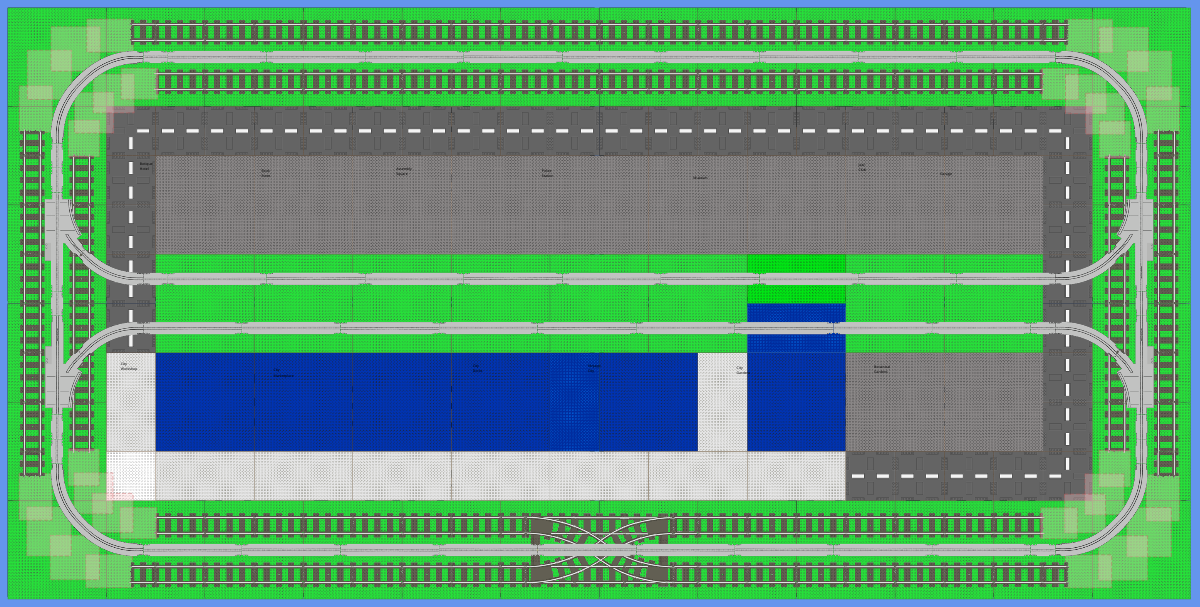
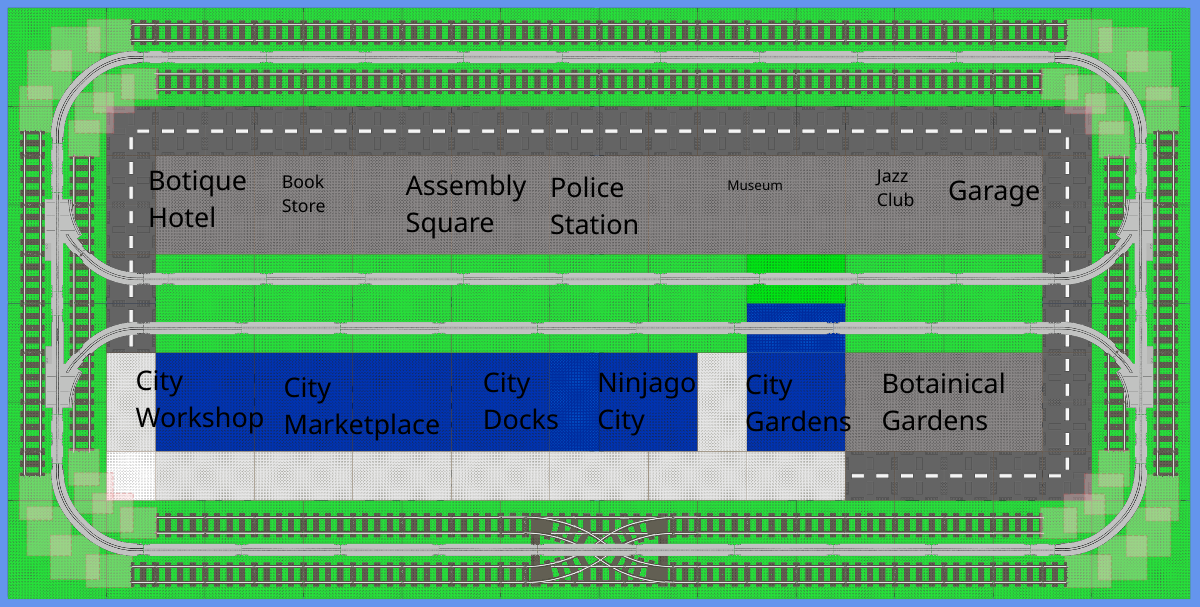
Phase 3.13: fit-to-box text rendering + panel action buttons
Text rendering fix (verified against fordyce-2026 and tight-corner):
- Vanilla stores the full rendered-text bounding box (including multi-
  line height) in TextCell.displayArea in studs. The Font.Size field
  is the typographic size used to produce that pixmap, NOT a
  scene-scale pt value, so applying it directly made labels display
  as tiny dots.
- SceneBuilder::addTextLayer now probes the text at a 100-px font
  size, measures the resulting bounding rect, and chooses the pixel
  size that maximises the text within displayArea while respecting
  both width AND height. Rotated labels (orientation 90°/270°) swap
  the target axes. Multi-line strings ("City\nGardens") get the
  right per-line size because the probe's bounding rect accounts for
  newlines natively.
- Text is centred on displayArea.center and rotated around that
  centre via QTransform (translate-rotate-translate), matching
  vanilla's "anchor in centre, rotate in place" behaviour.

Panel action buttons:
- LayerPanel gets a top toolbar row with "Show all" and "Solo" (hide
  all others), complementing the existing right-click context menu.
- ModulesPanel gets Create / Import… / Delete buttons. Create and
  Import pipe into the same slots that the menu uses (extracted into
  MainWindow::onCreateModuleFromSelection / onImportBbmAsModule);
  Delete is enabled only when a real module row is selected.

Refreshed preview images (docs/preview/*.png) with the new text
renderer.

diff --git a/src/ui/MainWindow.cpp b/src/ui/MainWindow.cpp
@@ -72,6 +72,10 @@ MainWindow::MainWindow(parts::PartsLibrary& parts, QWidget* parent)
             new edit::DeleteModuleCommand(*mapView_->currentMap(), id));
         modulesPanel_->setMap(mapView_->currentMap());
     });
+    connect(modulesPanel_, &ModulesPanel::createModuleRequested,
+            this, &MainWindow::onCreateModuleFromSelection);
+    connect(modulesPanel_, &ModulesPanel::importBbmRequested,
+            this, &MainWindow::onImportBbmAsModule);
 
     setupMenus();
     updateTitle();
@@ -195,75 +199,79 @@ void MainWindow::setupMenus() {
 
     auto* modules = menuBar()->addMenu(tr("&Modules"));
     auto* createModAct = modules->addAction(tr("Create from &Selection..."));
-    connect(createModAct, &QAction::triggered, this, [this]{
-        auto* map = mapView_->currentMap();
-        if (!map) return;
-        std::vector<edit::CreateModuleCommand::Member> members;
-        for (QGraphicsItem* it : mapView_->scene()->selectedItems()) {
-            if (it->data(2).toString() != QStringLiteral("brick")) continue;
-            members.push_back({ it->data(0).toInt(), it->data(1).toString() });
-        }
-        if (members.empty()) {
-            QMessageBox::information(this, tr("Create module"),
-                tr("Select one or more bricks first."));
-            return;
-        }
-        bool ok = false;
-        const QString name = QInputDialog::getText(
-            this, tr("Create module"), tr("Module name:"),
-            QLineEdit::Normal, tr("New Module"), &ok);
-        if (!ok || name.isEmpty()) return;
-        mapView_->undoStack()->push(new edit::CreateModuleCommand(*map, name, std::move(members)));
-        modulesPanel_->setMap(map);
-        statusBar()->showMessage(tr("Module created"), 3000);
-    });
-
+    connect(createModAct, &QAction::triggered, this, &MainWindow::onCreateModuleFromSelection);
     auto* importModAct = modules->addAction(tr("&Import .bbm as Module..."));
-    connect(importModAct, &QAction::triggered, this, [this]{
-        auto* map = mapView_->currentMap();
-        if (!map) return;
-        int targetLayer = -1;
-        for (int i = 0; i < static_cast<int>(map->layers().size()); ++i) {
-            if (map->layers()[i]->kind() == core::LayerKind::Brick) { targetLayer = i; break; }
-        }
-        if (targetLayer < 0) {
-            QMessageBox::warning(this, tr("Import module"), tr("No brick layer in the current map."));
-            return;
-        }
-        const QString path = QFileDialog::getOpenFileName(
-            this, tr("Import .bbm as module"), {},
-            tr("BlueBrick map (*.bbm)"));
-        if (path.isEmpty()) return;
-        auto loaded = saveload::readBbm(path);
-        if (!loaded.ok()) {
-            QMessageBox::warning(this, tr("Import failed"), loaded.error);
-            return;
-        }
-        std::vector<core::Brick> bricks;
-        for (const auto& L : loaded.map->layers()) {
-            if (L->kind() != core::LayerKind::Brick) continue;
-            const auto& BL = static_cast<const core::LayerBrick&>(*L);
-            for (const auto& b : BL.bricks) {
-                core::Brick copy = b;
-                copy.guid.clear();  // will be regenerated inside the command
-                bricks.push_back(std::move(copy));
-            }
-        }
-        if (bricks.empty()) {
-            QMessageBox::information(this, tr("Import module"),
-                tr("The selected file has no brick layers to import."));
-            return;
-        }
-        const QString name = QFileInfo(path).baseName();
-        mapView_->undoStack()->push(new edit::ImportBbmAsModuleCommand(
-            *map, targetLayer, path, name, std::move(bricks)));
-        mapView_->rebuildScene();
-        modulesPanel_->setMap(map);
-        statusBar()->showMessage(
-            tr("Imported %1 bricks as module '%2'").arg(bricks.size()).arg(name), 4000);
-    });
+    connect(importModAct, &QAction::triggered, this, &MainWindow::onImportBbmAsModule);
 
     menuBar()->addMenu(tr("&Help"));
+}
+
+void MainWindow::onCreateModuleFromSelection() {
+    auto* map = mapView_->currentMap();
+    if (!map) return;
+    std::vector<edit::CreateModuleCommand::Member> members;
+    for (QGraphicsItem* it : mapView_->scene()->selectedItems()) {
+        if (it->data(2).toString() != QStringLiteral("brick")) continue;
+        members.push_back({ it->data(0).toInt(), it->data(1).toString() });
+    }
+    if (members.empty()) {
+        QMessageBox::information(this, tr("Create module"),
+            tr("Select one or more bricks first."));
+        return;
+    }
+    bool ok = false;
+    const QString name = QInputDialog::getText(
+        this, tr("Create module"), tr("Module name:"),
+        QLineEdit::Normal, tr("New Module"), &ok);
+    if (!ok || name.isEmpty()) return;
+    mapView_->undoStack()->push(new edit::CreateModuleCommand(*map, name, std::move(members)));
+    modulesPanel_->setMap(map);
+    statusBar()->showMessage(tr("Module created"), 3000);
+}
+
+void MainWindow::onImportBbmAsModule() {
+    auto* map = mapView_->currentMap();
+    if (!map) return;
+    int targetLayer = -1;
+    for (int i = 0; i < static_cast<int>(map->layers().size()); ++i) {
+        if (map->layers()[i]->kind() == core::LayerKind::Brick) { targetLayer = i; break; }
+    }
+    if (targetLayer < 0) {
+        QMessageBox::warning(this, tr("Import module"), tr("No brick layer in the current map."));
+        return;
+    }
+    const QString path = QFileDialog::getOpenFileName(
+        this, tr("Import .bbm as module"), {},
+        tr("BlueBrick map (*.bbm)"));
+    if (path.isEmpty()) return;
+    auto loaded = saveload::readBbm(path);
+    if (!loaded.ok()) {
+        QMessageBox::warning(this, tr("Import failed"), loaded.error);
+        return;
+    }
+    std::vector<core::Brick> bricks;
+    for (const auto& L : loaded.map->layers()) {
+        if (L->kind() != core::LayerKind::Brick) continue;
+        const auto& BL = static_cast<const core::LayerBrick&>(*L);
+        for (const auto& b : BL.bricks) {
+            core::Brick copy = b;
+            copy.guid.clear();  // will be regenerated inside the command
+            bricks.push_back(std::move(copy));
+        }
+    }
+    if (bricks.empty()) {
+        QMessageBox::information(this, tr("Import module"),
+            tr("The selected file has no brick layers to import."));
+        return;
+    }
+    const QString name = QFileInfo(path).baseName();
+    const int imported = static_cast<int>(bricks.size());
+    mapView_->undoStack()->push(new edit::ImportBbmAsModuleCommand(
+        *map, targetLayer, path, name, std::move(bricks)));
+    mapView_->rebuildScene();
+    modulesPanel_->setMap(map);
+    statusBar()->showMessage(
+        tr("Imported %1 bricks as module '%2'").arg(imported).arg(name), 4000);
 }
 
 void MainWindow::updateTitle() {

diff --git a/src/rendering/SceneBuilder.cpp b/src/rendering/SceneBuilder.cpp
@@ -114,17 +114,55 @@ void addBrickLayer(const core::LayerBrick& L, QGraphicsItemGroup* group, parts::
 void addTextLayer(const core::LayerText& L, QGraphicsItemGroup* group) {
     for (const auto& cell : L.textCells) {
         auto* t = new QGraphicsSimpleTextItem(cell.text);
-        QFont f(cell.font.familyName, static_cast<int>(cell.font.sizePt));
+        QFont f(cell.font.familyName);
         f.setBold(cell.font.styleString.contains(QStringLiteral("Bold")));
         f.setItalic(cell.font.styleString.contains(QStringLiteral("Italic")));
+
+        // Upstream BlueBrick stores the text's *pixel* bounding box (converted
+        // to studs) in displayArea. The nominal Font.Size field is the
+        // typographic size used to render that pixmap, not the scene-scale
+        // size. We ignore font.sizePt and instead pick a pixel font size so
+        // the rendered text fills the displayArea's short axis. For rotated
+        // text (orientation != 0/180) the short axis is displayArea.width.
+        const float orient = std::fmod(cell.orientation, 360.0f);
+        const bool rot90 = (std::abs(std::abs(orient) - 90.0f)  < 1.0f ||
+                            std::abs(std::abs(orient) - 270.0f) < 1.0f);
+        // Unrotated target box in pixels. For 90° rotations the displayArea
+        // AABB's width is the rendered height and vice versa.
+        const double boxWpx = (rot90 ? cell.displayArea.height()
+                                     : cell.displayArea.width()) * kPx;
+        const double boxHpx = (rot90 ? cell.displayArea.width()
+                                     : cell.displayArea.height()) * kPx;
+
+        // Probe at a reference size, measure, then pick the pixel size that
+        // makes the rendered bounding box fit entirely inside (boxWpx, boxHpx).
+        // This preserves vanilla's per-label aspect without letting text
+        // overflow into neighbours when labels are tightly packed.
+        constexpr int kProbe = 100;
+        f.setPixelSize(kProbe);
         t->setFont(f);
+        const QRectF probeRect = t->boundingRect();
+        if (probeRect.width() > 0 && probeRect.height() > 0) {
+            const double scaleW = boxWpx / probeRect.width();
+            const double scaleH = boxHpx / probeRect.height();
+            const double scale  = std::min(scaleW, scaleH);
+            const int finalPx = std::max(1, static_cast<int>(kProbe * scale));
+            f.setPixelSize(finalPx);
+            t->setFont(f);
+        }
         t->setBrush(QBrush(cell.fontColor.color));
-        const QRectF areaPx(studToPx(cell.displayArea.x()),
-                            studToPx(cell.displayArea.y()),
-                            studToPx(cell.displayArea.width()),
-                            studToPx(cell.displayArea.height()));
-        t->setPos(areaPx.topLeft());
-        t->setRotation(cell.orientation);
+
+        // Centre the text on the displayArea centre, rotated in place. We
+        // translate by centre, rotate, then offset by -bbox.center so the
+        // item's local centre lands on the scene centre.
+        const QRectF localBbox = t->boundingRect();
+        const QPointF centerPx(studToPx(cell.displayArea.center().x()),
+                                studToPx(cell.displayArea.center().y()));
+        QTransform tr;
+        tr.translate(centerPx.x(), centerPx.y());
+        tr.rotate(cell.orientation);
+        tr.translate(-localBbox.width() / 2.0, -localBbox.height() / 2.0);
+        t->setTransform(tr);
         group->addToGroup(t);
     }
 }

diff --git a/src/ui/ModulesPanel.cpp b/src/ui/ModulesPanel.cpp
@@ -6,17 +6,56 @@
 
 #include <QContextMenuEvent>
 #include <QFileInfo>
+#include <QHBoxLayout>
 #include <QListWidget>
 #include <QListWidgetItem>
 #include <QMenu>
+#include <QPushButton>
+#include <QVBoxLayout>
+#include <QWidget>
 
 namespace cld::ui {
 
 ModulesPanel::ModulesPanel(QWidget* parent)
     : QDockWidget(tr("Modules"), parent) {
-    list_ = new QListWidget(this);
+    auto* host = new QWidget(this);
+    auto* col = new QVBoxLayout(host);
+    col->setContentsMargins(2, 2, 2, 2);
+    col->setSpacing(2);
+
+    auto* row = new QHBoxLayout();
+    row->setSpacing(2);
+    auto* createBtn = new QPushButton(tr("Create"), host);
+    createBtn->setToolTip(tr("Create a module from the current selection"));
+    auto* importBtn = new QPushButton(tr("Import…"), host);
+    importBtn->setToolTip(tr("Import a .bbm file as a module"));
+    auto* deleteBtn = new QPushButton(tr("Delete"), host);
+    deleteBtn->setToolTip(tr("Delete the selected module"));
+    deleteBtn->setEnabled(false);
+    row->addWidget(createBtn);
+    row->addWidget(importBtn);
+    row->addWidget(deleteBtn);
+    row->addStretch();
+    col->addLayout(row);
+
+    list_ = new QListWidget(host);
     list_->setContextMenuPolicy(Qt::CustomContextMenu);
-    setWidget(list_);
+    col->addWidget(list_);
+
+    setWidget(host);
+
+    connect(createBtn, &QPushButton::clicked, this, &ModulesPanel::createModuleRequested);
+    connect(importBtn, &QPushButton::clicked, this, &ModulesPanel::importBbmRequested);
+    connect(deleteBtn, &QPushButton::clicked, this, [this]{
+        auto* sel = list_->currentItem();
+        if (!sel) return;
+        const QString id = sel->toolTip();
+        if (!id.isEmpty()) emit moduleDeleteRequested(id);
+    });
+    // Delete button enables only when a valid module row is selected.
+    connect(list_, &QListWidget::currentItemChanged, this, [deleteBtn](QListWidgetItem* cur, QListWidgetItem*){
+        deleteBtn->setEnabled(cur && !cur->toolTip().isEmpty());
+    });
 
     connect(list_, &QWidget::customContextMenuRequested, this, [this](const QPoint& pos) {
         auto* item = list_->itemAt(pos);

diff --git a/src/ui/LayerPanel.cpp b/src/ui/LayerPanel.cpp
@@ -5,10 +5,14 @@
 #include "../rendering/SceneBuilder.h"
 
 #include <QContextMenuEvent>
+#include <QHBoxLayout>
 #include <QInputDialog>
 #include <QListWidget>
 #include <QListWidgetItem>
 #include <QMenu>
+#include <QPushButton>
+#include <QVBoxLayout>
+#include <QWidget>
 
 namespace cld::ui {
 
@@ -29,9 +33,37 @@ const char* layerKindName(core::LayerKind k) {
 }
 
 LayerPanel::LayerPanel(QWidget* parent) : QDockWidget(tr("Layers"), parent) {
-    list_ = new QListWidget(this);
+    auto* host = new QWidget(this);
+    auto* col = new QVBoxLayout(host);
+    col->setContentsMargins(2, 2, 2, 2);
+    col->setSpacing(2);
+
+    auto* row = new QHBoxLayout();
+    row->setSpacing(2);
+    auto* showAll = new QPushButton(tr("Show all"), host);
+    auto* hideOthers = new QPushButton(tr("Solo"), host);
+    hideOthers->setToolTip(tr("Show only the selected layer"));
+    row->addWidget(showAll);
+    row->addWidget(hideOthers);
+    row->addStretch();
+    col->addLayout(row);
+
+    list_ = new QListWidget(host);
     list_->setContextMenuPolicy(Qt::CustomContextMenu);
-    setWidget(list_);
+    col->addWidget(list_);
+
+    setWidget(host);
+
+    connect(showAll, &QPushButton::clicked, this, [this]{
+        for (int i = 0; i < list_->count(); ++i) list_->item(i)->setCheckState(Qt::Checked);
+    });
+    connect(hideOthers, &QPushButton::clicked, this, [this]{
+        auto* sel = list_->currentItem();
+        if (!sel) return;
+        for (int i = 0; i < list_->count(); ++i) {
+            list_->item(i)->setCheckState(list_->item(i) == sel ? Qt::Checked : Qt::Unchecked);
+        }
+    });
     connect(list_, &QListWidget::itemChanged, this, [this](QListWidgetItem* item) {
         if (!builder_) return;
         const int idx = list_->row(item);

diff --git a/src/ui/ModulesPanel.h b/src/ui/ModulesPanel.h
@@ -19,6 +19,8 @@ public:
 
 signals:
     void moduleDeleteRequested(const QString& moduleId);
+    void createModuleRequested();     // toolbar "Create from selection"
+    void importBbmRequested();        // toolbar "Import .bbm..."
 
 private:
     QListWidget* list_ = nullptr;

diff --git a/src/ui/MainWindow.h b/src/ui/MainWindow.h
@@ -45,6 +45,8 @@ private slots:
     void onZoomOut();
     void onFitToView();
     void onManageLibraries();
+    void onCreateModuleFromSelection();
+    void onImportBbmAsModule();
 
 private:
     void setupMenus();
